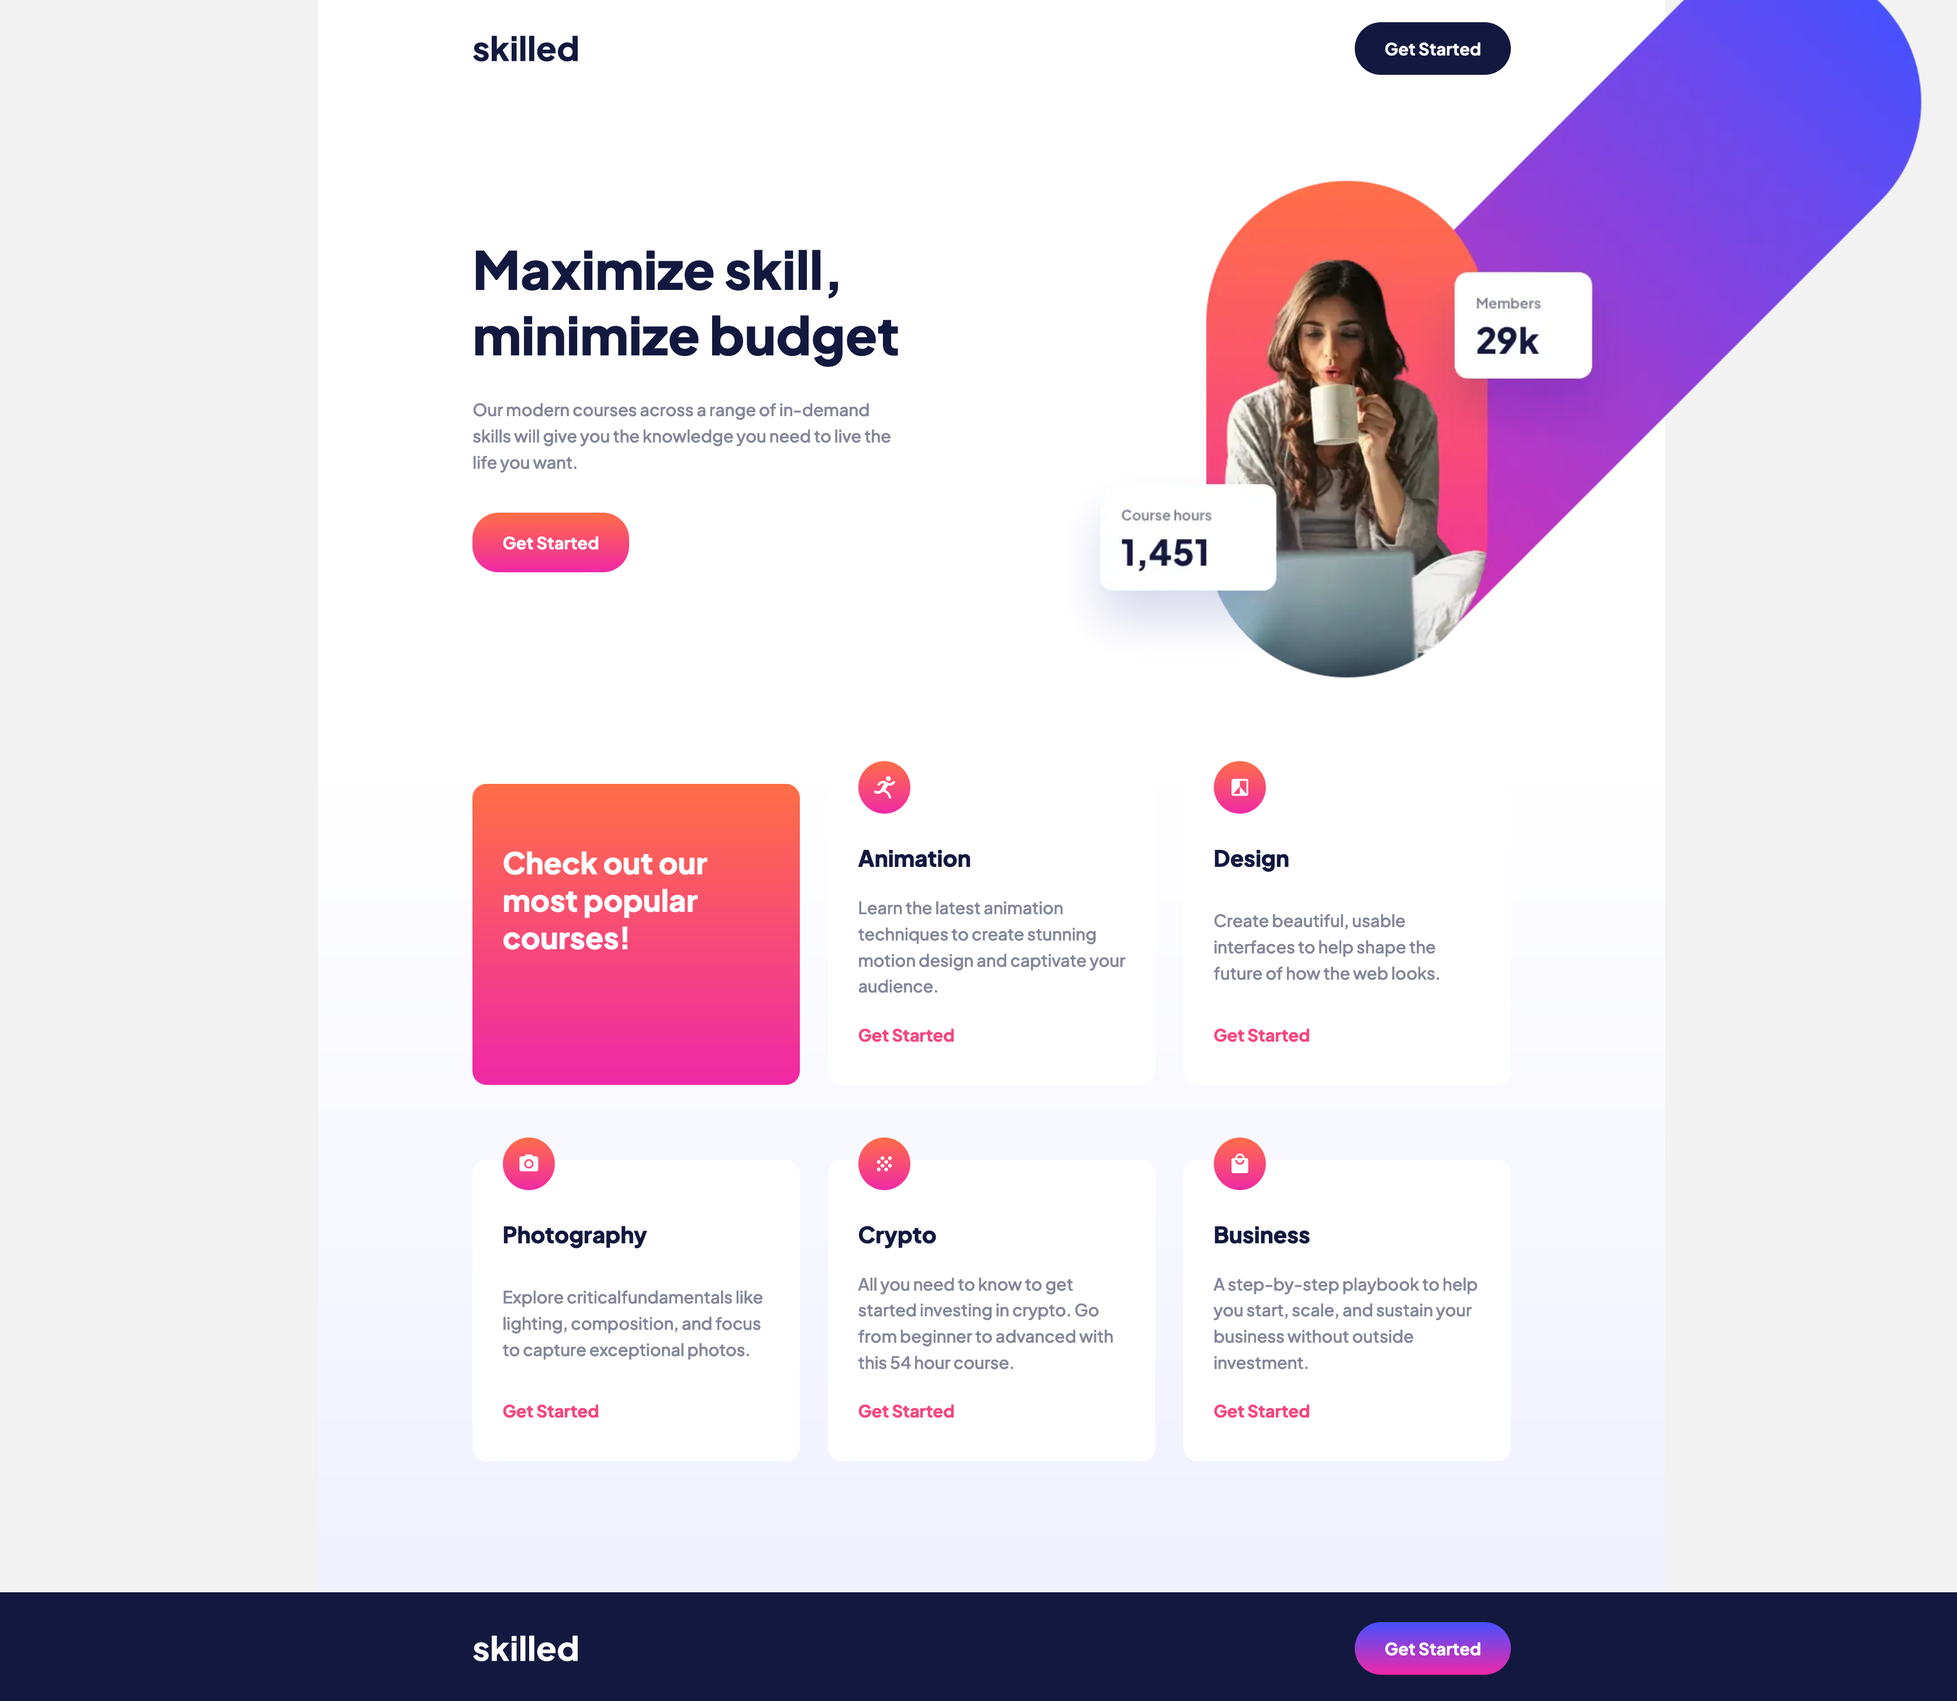
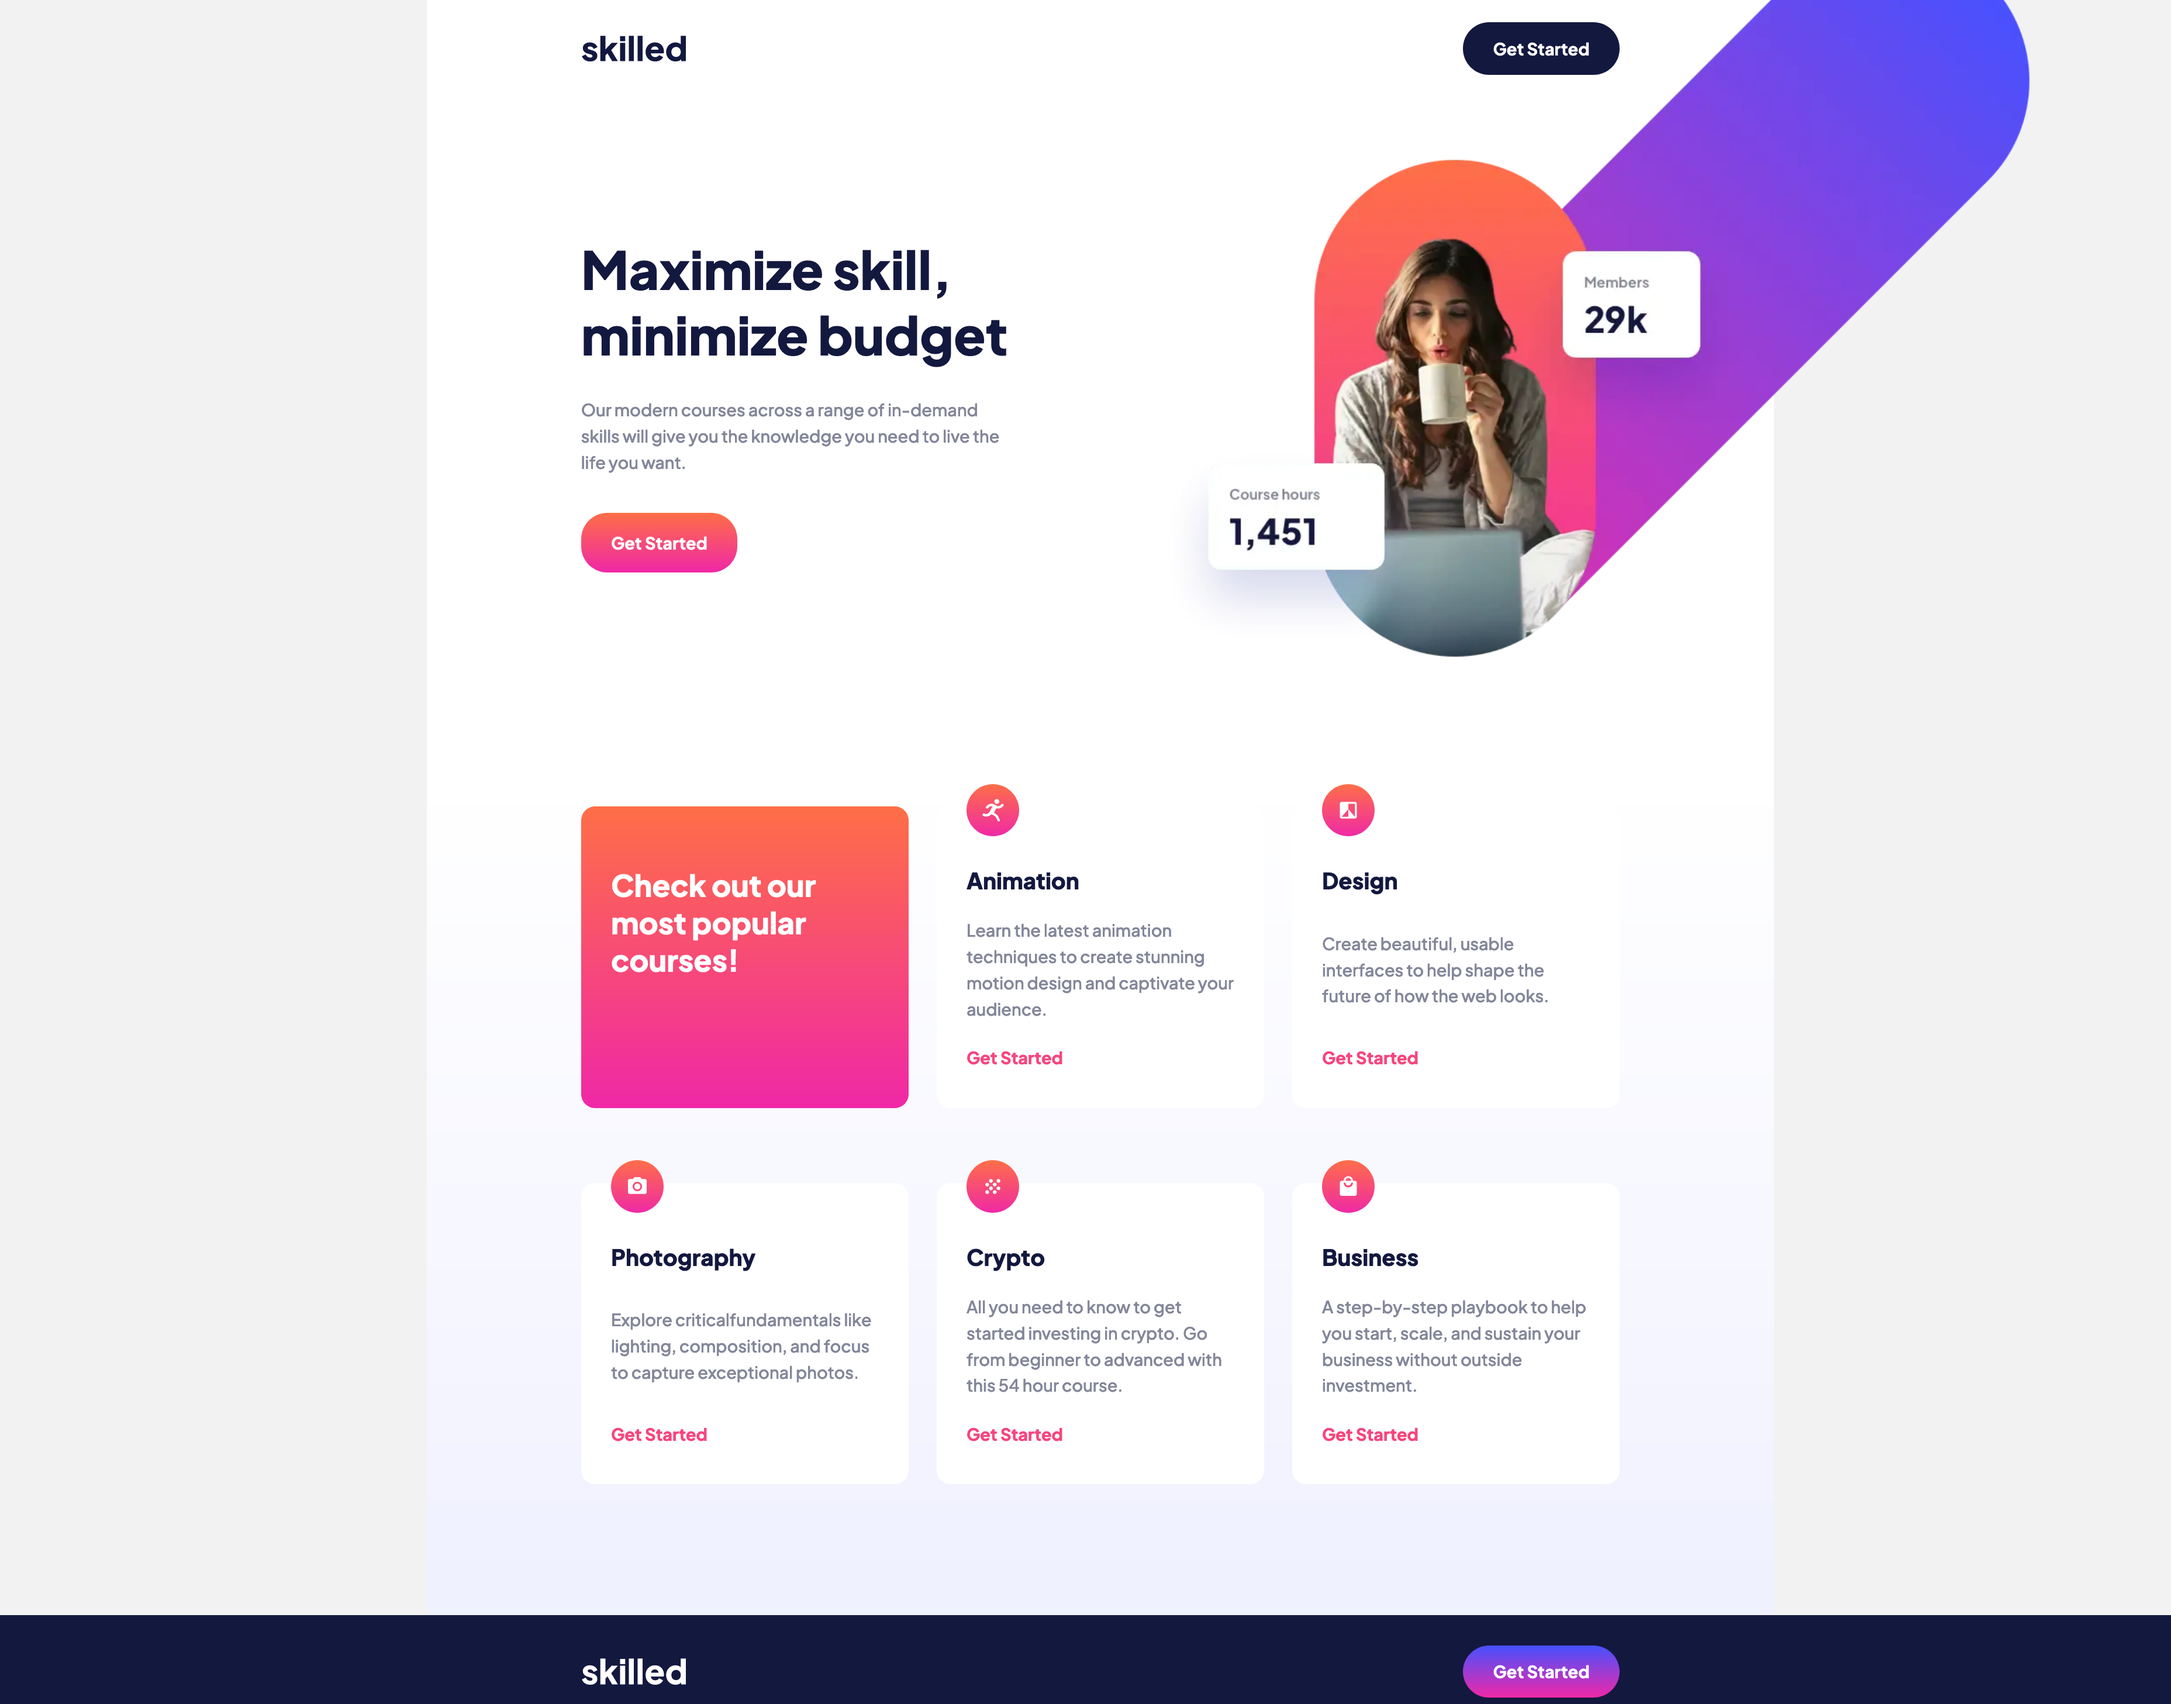
modified index.html, index.css and screenshot.

diff --git a/index.html b/index.html
@@ -39,7 +39,7 @@
          </div>
          <div class="card">
             <img src="./assets/icon-animation.svg" alt="animation icon">
-            <h4>Animation</h4>
+            <h1>Animation</h1>
             <p>
                Learn the latest animation techniques to create stunning motion design and
                captivate your audience.
@@ -48,7 +48,7 @@
          </div>
          <div class="card">
             <img src="./assets/icon-design.svg" alt="design icon">
-            <h4>Design</h4>
+            <h1>Design</h1>
             <p>
                Create beautiful, usable interfaces to help shape the future of how
                the web looks.
@@ -57,7 +57,7 @@
          </div>
          <div class="card">
             <img src="./assets/icon-photography.svg" alt="photography icon">
-            <h4>Photography</h4>
+            <h1>Photography</h1>
             <p>
                Explore criticalfundamentals like lighting, composition, and focus to 
                capture exceptional photos.
@@ -66,7 +66,7 @@
          </div>
          <div class="card">
             <img src="./assets/icon-crypto.svg" alt="crypto icon">
-            <h4>Crypto</h4>
+            <h1>Crypto</h1>
             <p>
                All you need to know to get started investing in crypto. Go from beginner to 
                advanced with this 54 hour course.
@@ -75,7 +75,7 @@
          </div>
          <div class="card">
             <img src="./assets/icon-business.svg" alt="business icon">
-            <h4>Business</h4>
+            <h1>Business</h1>
             <p>
                A step-by-step playbook to help you start, scale, and sustain your business 
                without outside investment.

diff --git a/index.css b/index.css
@@ -97,12 +97,6 @@ h2 {
    line-height: var(--lh-h2);
 }
 
-h4 {
-   font-size: var(--fs-h4);
-   font-weight: 800;
-   line-height: var(--lh-h4);
-}
-
 .parag-medium {
    font-size: var(--fs-body-m);
    font-weight: 500;
@@ -193,7 +187,7 @@ body {
 .hero .container {
    background-color: hsl( var(--color-white) );
    padding-top: 10.75rem;
-   padding-bottom: 14.125rem;
+   padding-bottom: 15.625rem;
    position: relative;
 }
 
@@ -224,7 +218,7 @@ body {
 
 .hero-image {
    position: absolute;
-   bottom: 3.3rem;
+   bottom: 6.2rem;
    left: 49rem;
 }
 
@@ -282,7 +276,9 @@ body {
    left: 2rem;
 }
 
-.courses .card h4 {
+.courses .card h1 {
+   font-size: var(--fs-h4);
+   font-weight: 800;
    line-height: 1.26;
    margin-bottom: 1.5rem;
 }
@@ -344,11 +340,6 @@ body {
    h1 {
       font-size: var(--fs-h2);
       line-height: var(--lh-h2);
-   }
-
-   h4 {
-      font-size: 1.25rem;
-      line-height: 1.26;
    }
 
    button {
@@ -422,7 +413,9 @@ body {
       line-height: 1.333;
    }
    
-   .courses .card h4 {
+   .courses .card h1 {
+      font-size: 1.25rem;
+      line-height: 1.26;
       margin-bottom: 1rem;
    }
    
